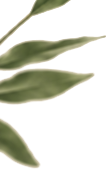
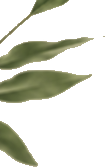
Remove o fiapo claro na borda das plantas decorativas.

diff --git a/src/components/sections/product-section.tsx b/src/components/sections/product-section.tsx
@@ -26,16 +26,16 @@ export function ProductSection() {
       <Image
         src="/images/bonus/planta-topo.png"
         alt=""
-        width={106}
-        height={169}
+        width={105}
+        height={167}
         unoptimized
         className="pointer-events-none absolute top-0 left-0 h-32 w-auto sm:h-36 lg:h-44"
       />
       <Image
         src="/images/bonus/planta-base.png"
         alt=""
-        width={87}
-        height={178}
+        width={85}
+        height={175}
         unoptimized
         className="pointer-events-none absolute right-0 bottom-0 h-32 w-auto sm:h-36 lg:h-44"
       />
